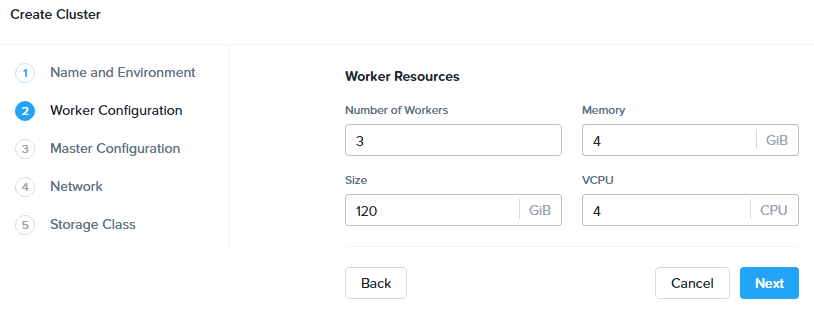
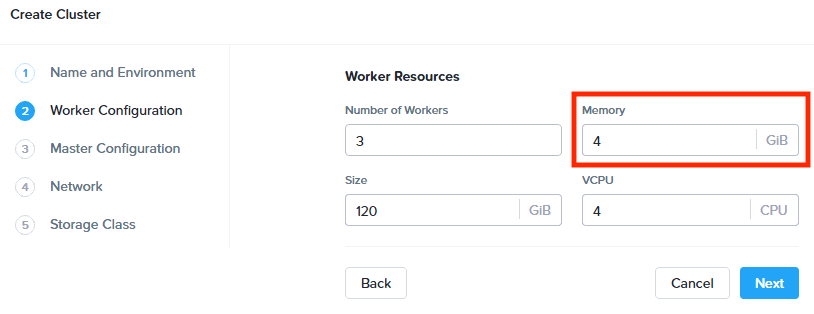
Karbon updates

Changed region(s): [[0.6757, 0.2866, 1.0, 0.5446]]

diff --git a/karbon/karbon.rst b/karbon/karbon.rst
@@ -17,9 +17,56 @@ Nutanix Karbon is an on-prem turnkey curated enterprise-grade Kubernetes service
 
 Karbon provides a consumer-grade experience for delivering Kubernetes on-prem providing huge savings on OpEx of dedicated DevOps or SRE teams to keep Kubernetes online, up to date or integrated with 3rd party components and tooling.
 
-*<What is Kubernetes/containers? Why do people care about deploying applications using Kubernetes? What are the advantages? What problems does Karbon solve versus a DIY Kubernetes deployment? What about advantages of virtualized Kubernetes over baremetal? What does market adoption of Kubernetes look like? What are people using it for?>* (this could also be covered in the intro video)
-
 **In this lab you will deploy a Kubernetes cluster using Karbon and then deploy multiple containers, referred to as Kubernetes pods, to run a sample application.**
+
+If you already have an understanding of containers, Kubernetes, challenges, and use cases, jump to `Create a Karbon Kubernetes Cluster`_.
+
+What are Containers?
+....................
+
+A container is a standard unit of software that packages up code and all its dependencies so the application runs quickly and reliably from one computing environment to another. Unlike traditional virtualization, containers are substantially more light-weight than VMs, with many containers capable of sharing the same host OS instance.
+
+.. figure:: images/overview1.png
+
+Containers provide two key features: a packaging mechanism and a runtime environment.
+
+At the runtime level, the container allows an application to run as an isolated process with its own view of the operating system. While VMs provide isolation via virtualized hardware, containers leverage the ability of the Linux kernel to provide isolated namespaces for individual processes. This lightweight nature means each application gets its own container, preventing dependency conflicts.
+
+As a packaging mechanism, a container is typically just a tarball: a way to bundle the code, configuration and dependencies of an application into a single file. This eliminates the problem of “It worked on my environment, why doesn’t it work on yours,” because everything necessary to run the application consistently is transported with the container. Ideally, applications produce the same output regardless of environment, and containerization makes that ideal a lot easier to reach. The result is a containerized application that will start, stop, make requests and log the same way.
+
+Container Benefits and Issues
+.............................
+
+For any business, containers represent a large opportunity:
+
+- Developers will spend less time debugging environment issues and more time writing code. 
+- Server bills will shrink, because more applications can fit on a server using containers than in traditional deployments. 
+- Containers can run anywhere, increasing the available deployment options. For complex applications consisting of multiple components, containers vastly simplify updates. Placing each component in a container makes it simple to make changes without having to worry about unintended interactions with other components.
+
+Use cases for containerized workloads include:
+
+- Continuous Integration Continuous Delivery (CI/CD) development
+- Application modernization/Microservices
+- API, web, and backend app development/delivery
+- Application cost containment
+- Enabling hybrid cloud
+
+While breaking down applications into microservices, or discrete functional parts, has clear benefits, having more parts to manage can introduce complexities for configuration, service discovery, load balancing, resource scaling, and discovering and fixing failures. Managing this complexity manually isn't scalable.
+
+Introducing Kubernetes
+......................
+
+`Kubernetes <https://kubernetes.io/docs/concepts/overview/what-is-kubernetes/>`_ is an container orchestration platform, open sourced by Google in 2014, that helps manage distributed, containerized applications at massive scale. According to Redmonk, 54 %of Fortune 100 companies are running Kubernetes in some form, with adoption coming from every sector.
+
+.. figure:: images/overview2.jpg
+
+Kubernetes delivers production-grade container orchestration, automating container configuration, simplifying scaling, lifecycle management, and managing resource allocation. Kubernetes can run anywhere. Whether you want your infrastructure to run on-premise, on a public cloud, or a hybrid configuration of both.
+
+However, vanilla Kubernetes presents its own challenges that make it difficult for organizations to adopt the technology. Building your own production-ready deployment that ensures the Kubernetes environment itself is robust, easy to maintain (automated), with integrated features for things like networking, logging, analytics, and secret management, could take months.
+
+Kubernetes aggressive, quarterly release cycle (where releases are deprecated by the community after 3 quarters) can create adoption challenges for enterprises. Finally, from a supportability and risk perspective, maintaining your own custom Kubernetes stack for production applications would be analogous to using a custom-made distribution of Linux - virtually unheard of in the enterprise.
+
+As previously stated, Nutanix Karbon provides a turn-key solution to address these critical Kubernetes challenges.
 
 Create a Karbon Kubernetes Cluster
 ++++++++++++++++++++++++++++++++++
@@ -32,7 +79,7 @@ In **Prism Central**, select :fa:`bars` **> Services > Karbon**.
 
 .. note::
 
-  If Karbon has not already been enabled on your cluster, click the **Enable Karbon** button when prompted. Once clicked, the process should take approximately 2 minutes to complete. During this time the cluster is... *<What is it doing?>*
+  If Karbon has not already been enabled on your cluster, click the **Enable Karbon** button when prompted. Once clicked, the process should take approximately 2 minutes to complete. During this time Prism Central is deploying the Karbon control plane, which runs as a set of containers within the Prism Central VM.
 
   .. figure:: images/2.png
 
@@ -65,7 +112,13 @@ On the **Name and Environment** tab, fill out the following fields:
 
 Click **Next**.
 
-Next you will define the number of container host VMs and compute requirements. For the purposes of this exercise you will reduce the amount of memory consumed by default by each worker VM.
+Next you will define the number of container host VMs and compute requirements, starting with **Worker** VMs.
+
+Worker nodes are responsible for running containers deployed onto the Kubernetes cluster. Each Worker node runs the `kubelet <https://kubernetes.io/docs/admin/kubelet/>`_ and `kube-proxy https://kubernetes.io/docs/admin/kube-proxy/>`_ services.
+
+.. raw:: html
+
+  <strong><font color="red">For the purposes of this non-production exercise you will reduce the amount of memory consumed by default by each worker and etcd VM.</font></strong>
 
 On the **Worker Configuration** tab, fill out the following fields:
 
@@ -78,7 +131,11 @@ On the **Worker Configuration** tab, fill out the following fields:
 
 Click **Next**.
 
-Next you will define the compute requirements for the master node which controls the Kubernetes cluster, as well as the number and compute requirements of the etcd nodes, which manage cluster state.
+Next you will define the compute requirements for the **Master** and **etcd** nodes.
+
+The Master node controls the Kubernetes cluster and provides the `kube-apiserver <https://kubernetes.io/docs/admin/kube-apiserver/>`_, `kube-controller-manager <https://kubernetes.io/docs/admin/kube-controller-manager/>`_. and `kube-scheduler <https://kubernetes.io/docs/admin/kube-scheduler/>`_ services.
+
+The `etcd <https://coreos.com/etcd/>`_ nodes provide a distributed key-value store which Kubernetes uses to manage cluster state, similar to how Nutanix leverages Zookeeper.
 
 On the **Master Configuration** tab, fill out the following fields:
 
@@ -124,7 +181,7 @@ On the **Storage Class** tab, fill out the following fields:
 
 Click **Create**.
 
-Deployment of the cluster should take approximately X minutes. During this time, Karbon is... *<What is it doing?>*
+Deployment of the cluster should take approximately 10 minutes. During this time, Karbon is pulling images from public image repositories for the **master**, **etcd**, and **worker** nodes, as well as **flannel**, the Nutanix Volumes plugin, and any additional Karbon plugins. Support for authenticated proxy and dark site image repositories will be added post-GA.
 
 Filtering VMs for **wordpress-**\ *Initials* in **Prism Central** will display the master, etcd, and worker VMs provisioned by Karbon.
 
@@ -144,9 +201,7 @@ Click on your cluster name (**wordpress-**\ *Initials*) to access the Summary Pa
 
 Explore this view and note the ability to create and add additional storage classes and persistent storage volumes to the cluster. Additional persistent storage volumes could be leveraged for use cases such as containerized databases.
 
-Under **Add-on**, note that Kibana has been automatically deployed and configured as part of the Karbon cluster to provide logging services.
-
-In approximately 10 minutes, you have deployed a production-ready Kubernetes cluster with *<X, Y, and Z>* services.
+In 15 minutes or less, you have deployed a production-ready Kubernetes cluster with logging (EFK), networking (flannel), and persistent storage services.
 
 Getting Started with Kubectl
 ++++++++++++++++++++++++++++
@@ -334,16 +389,78 @@ Congratulations! Your Wordpress application and MySQL database setup is complete
 Exploring Logging & Visualization
 +++++++++++++++++++++++++++++++++
 
-*<Description of Karbon plug-in architecture>*
+Karbon provides a plug-in architecture to continually add additional functionality on top of vanilla Kubernetes. The firdst plug-in Karbon will provide is an integrated logging services stack called **EFK**, short for `Elasticsearch <https://github.com/elastic/elasticsearch>`_, `fluentd <https://www.fluentd.org/>`_ and `Kibana <https://github.com/elastic/kibana>`_.
 
-Out of the box, Karbon deploys `Elasticsearch <https://github.com/elastic/elasticsearch>`_ and `Kibana <https://github.com/elastic/kibana>`_ to store, search, and visualize logging data for your Kubernetes environment.
+Elasticsearch is a real-time, distributed, and scalable search engine which allows for full-text and structured search, as well as analytics. It is commonly used to index and search through large volumes of log data, but can also be used to search many different kinds of documents.
 
-*<What's a simple example we can do to illustrate the usefulness of including Kibana?>*
+Elasticsearch is commonly deployed alongside Kibana, a powerful data visualization frontend and dashboard for Elasticsearch. Kibana allows you to explore your Elasticsearch log data through a web interface, and build dashboards and queries to quickly answer questions and gain insight into your Kubernetes applications.
+
+Fluentd is a popular data collector that runs on all Kubernetes nodes to tail container log files, filter and transform the log data, and deliver it to the Elasticsearch cluster, where it will be indexed and stored.
+
+Return to the **Karbon Console** and select your **wordpress-**\ *Initials* cluster.
+
+Select **Add-on** from the sidebar to view and manage available Karbon plugins.
+
+.. figure:: images/21.png
+
+Select **Logging** to launch the Kibana user interface.
+
+Select **Discover** from the sidebar and define **\ * ** as the **Index Pattern**. This wildcard will retrieve all available indices within Elastisearch, including **etcd**, **kubernetes**, and **systemd**.
+
+.. figure:: images/22.png
+
+Click **Next Step**.
+
+Select **@timestamp** from the **Time Filter field name** drop down menu to allow you to sort logging entries by their respective timestamps.
+
+Click **Create index pattern**.
+
+Select **Discover** again from the sidebar to view all logs from the Karbon cluster. You can reduce the amount of Kubernetes metadata displayed by adding the **log** entry under **Available Fields**.
+
+.. figure:: images/23.png
+
+Using ``kubectl`` to get your Wordpress pod name, add a filter to search for logs specific to that pod.
+
+.. figure:: images/24.png
+
+Advanced Kibana usage, including time series data visualization that can answer questions such as "What is the difference in service error rates between our last 3 application upgrades," is covered in the `Kibana User Guide <https://www.elastic.co/guide/en/kibana/6.2/index.html>`_.
 
 Coming Soon!
 ++++++++++++
 
-<What are other things people can look forward to in the Karbon GA? Scaling out worker VMs? Anything else? How do these expand use cases or increase value/solve problems?>
+**The upcoming Karbon 1.0 GA is ready for production workloads.** Additional features and functionality include:
+
+- Pre-configured Production and Dev/Test cluster profiles to further simplify provisioning
+
+- Multi-Master VM support to provide an HA Kubernetes control plane
+
+  - Active/passive Multi-Master HA out of the box
+
+  - Support for 3rd party load balancers
+
+- The ability to add/remove worker node(s) to deployed clusters
+
+- Cluster level monitoring & alerting using `Prometheus <https://prometheus.io/docs/introduction/overview/>`_, an open-source systems monitoring and alerting system with an embedded time-series database originally developed by SoundCloud.
+
+- New Nutanix Container Storage Interface (CSI) Driver Support
+
+  - `CSI <https://kubernetes-csi.github.io/docs/>`_ is the standard for exposing arbitrary block and file storage storage systems to Kubernetes
+
+  - Support for Nutanix Volumes and Nutanix Files
+
+- Upgrades & Patching
+
+  - Non-disruptive Karbon upgrades
+
+  - Immutable OS upgrades of all cluster nodes
+
+- Support for native `Kubernetes RBAC <https://kubernetes.io/docs/reference/access-authn-authz/rbac/>`_
+
+- Rotating 24-hour key-based access to cluster to minimize malicious activity
+
+- Darksite Support
+
+  - Local read-only image repository for offline cluster deployments for customers that do not allow internet access
 
 Takeaways
 +++++++++
@@ -356,6 +473,8 @@ What are the key things you should know about **Nutanix Karbon**?
 
 - Karbon enables enterprises to provide a private-cloud Kubernetes solution with the simplicity and performance of public clouds.
 
+- Karbon can provide additional functionality to Kubernetes over time through its plugin architecture.
+
 - Karbon is part of a complete Cloud Native solution from Nutanix including storage (Volumes/Buckets/Files), database automation (Era), and enhanced monitoring (Epoch).
 
 Getting Connected
@@ -363,14 +482,25 @@ Getting Connected
 
 Have a question about **Nutanix Karbon**? Please reach out to the resources below:
 
-+---------------------------------------------------------------------------------+
-|  Karbon Product Contacts                                                        |
-+================================+================================================+
-|  Slack Channel                 |  #karbon                                       |
-+--------------------------------+------------------------------------------------+
-|  Product Manager               |  Denis Guyadeen, dguyadeen@nutanix.com         |
-+--------------------------------+------------------------------------------------+
-|  Product Marketing Manager     |  Maryam Sanglaji, maryam.sanglaji@nutanix.com  |
-+--------------------------------+------------------------------------------------+
-|  Technical Marketing Engineer  |  Dwayne Lessner, dwayne@nutanix.com            |
-+--------------------------------+------------------------------------------------+
++-------------------------------------------------------------------------------------+
+|  Karbon Product Contacts                                                            |
++================================+====================================================+
+|  Slack Channel                 |  #karbon                                           |
++--------------------------------+----------------------------------------------------+
+|  Product Manager               |  Denis Guyadeen, dguyadeen@nutanix.com             |
++--------------------------------+----------------------------------------------------+
+|  Product Marketing Manager     |  Maryam Sanglaji, maryam.sanglaji@nutanix.com      |
++--------------------------------+----------------------------------------------------+
+|  Technical Marketing Engineer  |  Dwayne Lessner, dwayne@nutanix.com                |
++--------------------------------+----------------------------------------------------+
+|  NEXT Community Forum          |  https://next.nutanix.com/kubernetes-containers-30 |
++--------------------------------+----------------------------------------------------+
+
+Additional Kubernetes Training Resources
+++++++++++++++++++++++++++++++++++++++++
+
+- `Introduction to Kubernetes <https://www.edx.org/course/introduction-to-kubernetes>`_ - Free introductory training by The Linux Foundation
+
+- `Play with Kubernetes <https://training.play-with-kubernetes.com/>`_ - Free introductory training and lab environment by Docker
+
+- `Scalable Microservices with Kubernetes <https://www.udacity.com/course/scalable-microservices-with-kubernetes--ud615>`_ - Free intermediate training by Google
